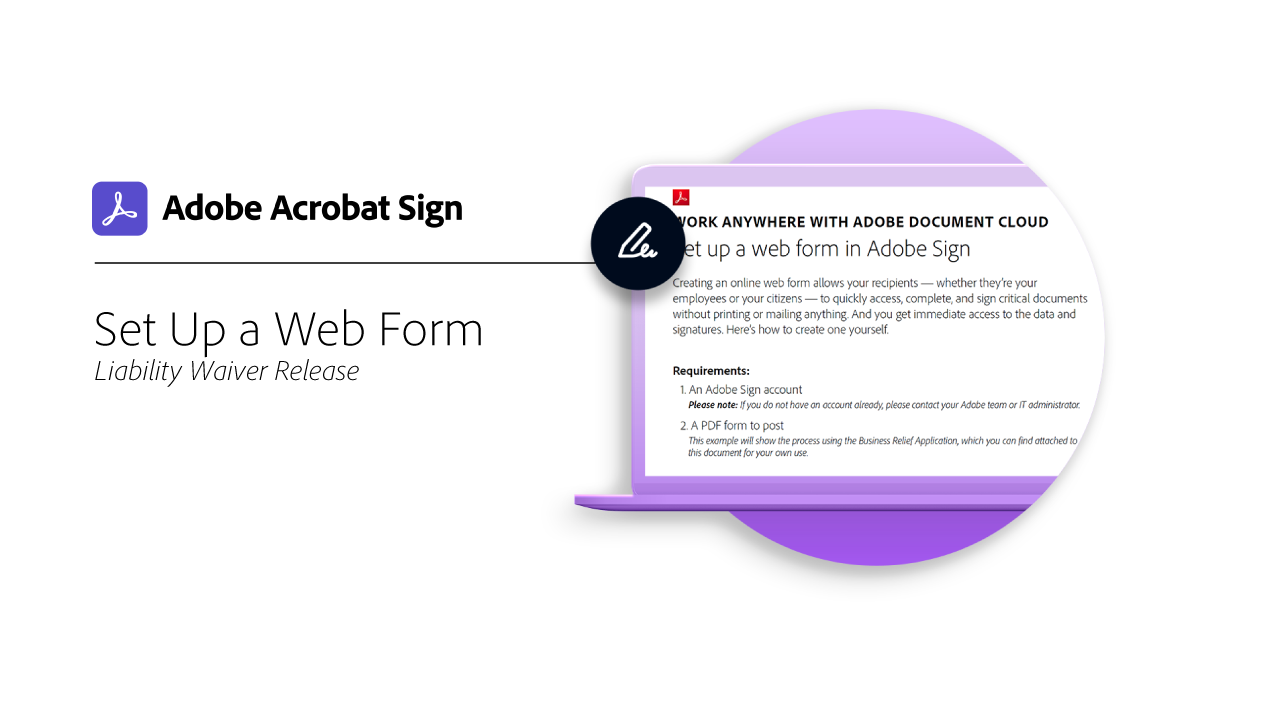
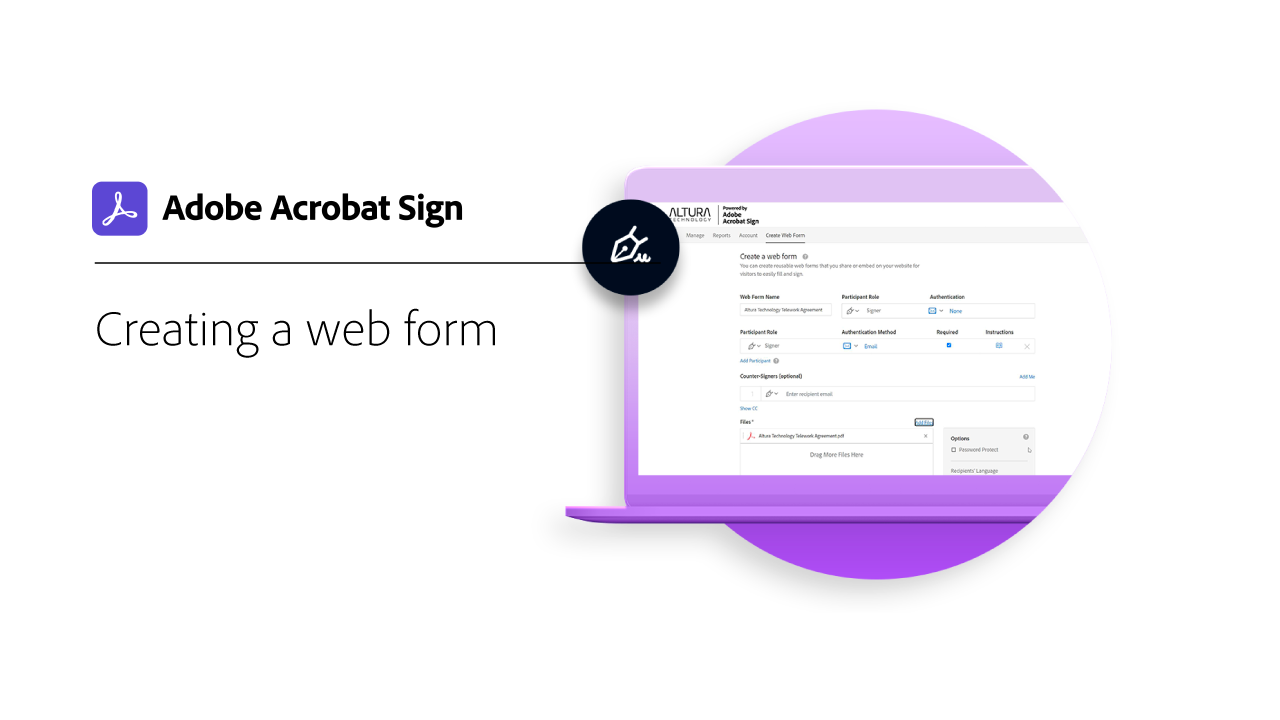
Creating a web form tutorial

Changed region(s): [[0.4375, 0.2139, 0.8438, 0.825], [0.0625, 0.4278, 0.375, 0.5194]]

diff --git a/help/sign/sign-advanced-users/webform.md b/help/sign/sign-advanced-users/webform.md
@@ -10,7 +10,7 @@ exl-id: d6297c78-40d5-4353-893c-9fd5648048c6,ed99edd5-f826-4ac6-8f32-6a4e6e48ddc
 ---
 # Set up a Web Form
 
-Learn how to create a document that can be signed electronically directly on your website. You can create a [hosted hyperlink to your form](https://salesforceintegration.na2.echosign.com/public/esignWidget?wid=CBFCIBAA3AAABLblqZhAa5MmTHYoyIwWia3GbWuwgXo0CqUPbm9Fndza1A51v56MP1PP5GL6UzOKpAYQ9RTI*) or use the link to embed on your website in html or JavaScript.
+Learn how to create a document that can be signed electronically directly on your website. You can create a [hosted hyperlink to your form](https://salesforceintegration.na2.echosign.com/public/esignWidget?wid=CBFCIBAA3AAABLblqZhBTZvjMual0H-M6HTSunw9hV1t-OdGbQI3d-nWJdEH76dHPxK1QH6DO9XGjch6QVho*) or use the link to embed on your website in html or JavaScript.
 
 Check out these additional real-world use cases:
 

diff --git a/help/sign/admin/intro-admin-overview.md b/help/sign/admin/intro-admin-overview.md
@@ -94,10 +94,10 @@ Learn about adding users to your account, setting up groups, sharing access, and
   </td>
   <td>
     <a href="../sign-advanced-users/webform.md">
-      <img alt="Set Up a Web Form" src="../assets/Webform.png" />
+      <img alt="Creating a web form" src="../assets/Webform.png" />
     </a>
     <div>
-    <a href="../sign-advanced-users/webform.md"><strong>Set Up a Web Form</strong></a>
+    <a href="../sign-advanced-users/webform.md"><strong>Creating a web form</strong></a>
     </div>
     <em>Create a document that can be signed electronically directly on your website</em>
     <br>

diff --git a/help/sign/TOC.md b/help/sign/TOC.md
@@ -53,7 +53,7 @@ breadcrumb-title: Acrobat Sign Tutorials
     + [Setting up an external archive](admin/set-up-your-external-archive.md)
     + [Creating a template](sign-advanced-users/create-a-template.md)
     + [Creating a report](admin/create-a-report.md)
-    + [Setting up a Web Form](sign-advanced-users/webform.md)
+    + [Creating a web form](sign-advanced-users/webform.md)
     + [Send & collect signatures in bulk](sign-advanced-users/megasign.md)
     + [Building a custom workflow](admin/building-a-custom-workflow.md)
   + Advanced tasks {#advanced-tasks-admins}

diff --git a/help/sign/sign-advanced-users/advanced-users-overview.md b/help/sign/sign-advanced-users/advanced-users-overview.md
@@ -62,10 +62,10 @@ Learn how to send a document out for signature to 100s of recipients at once, se
   </td>
   <td>
     <a href="webform.md">
-      <img alt="Setting up a Web Form" src="../assets/Webform.png" />
+      <img alt="Creating a web form" src="../assets/Webform.png" />
     </a>
     <div>
-    <a href="webform.md"><strong>Setting up a Web Form</strong></a>
+    <a href="webform.md"><strong>Creating a web form</strong></a>
     </div>
     <em>Create a document that can be signed electronically directly on your website</em>
     <br>
